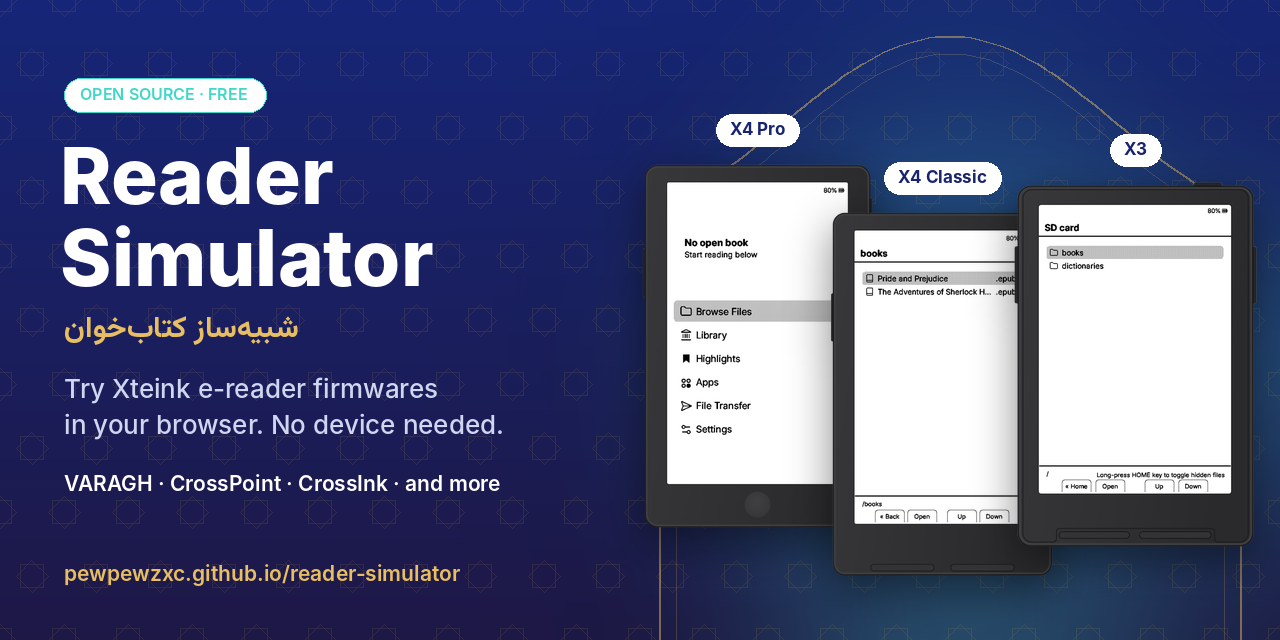
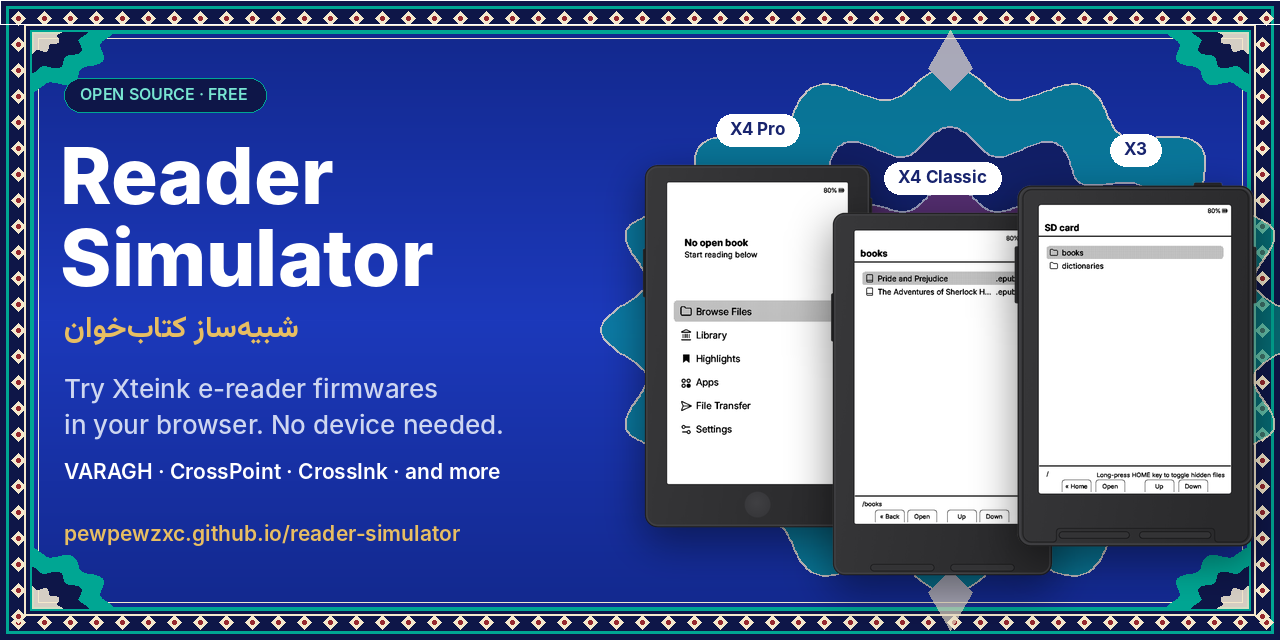
Social images: Persian rug design (Persian blue field, Persian green guards, central medallion); Reddit post text
Claude-Session: https://claude.ai/code/session_017xrLS5EUsNn3uv8jvV4W62

diff --git a/docs/social/reddit-post.md b/docs/social/reddit-post.md
@@ -1,0 +1,21 @@
+**Title:** I made a free simulator to try Xteink firmwares in your browser (X4 Pro, X4 Classic, X3)
+
+**Body:**
+
+Hi all! I built **Reader Simulator**, a free, open-source way to try custom firmwares for the X4 Pro, X4 Classic and X3 without flashing anything.
+
+👉 https://pewpewzxc.github.io/reader-simulator/
+
+- Pick a device, firmware and version, then press Start. Works on desktop, tablet and phone.
+- Click the keys or use the X4 Pro touchscreen.
+- Each SD card comes with two free books and a dictionary, or add your own EPUBs (they never leave your browser).
+- New firmware releases are built and added automatically.
+
+**Available now:** VARAGH, CrossPoint, CrossInk, YACP, CrossNotes, CrossDiTo, PocketDeck OS, duet and the Pokémon game.
+
+**Help wanted:**
+
+- **Suggestions:** which firmwares should I add next?
+- **Firmware authors:** I can't get **Witchhunt Reader, CrossPlant, inx, InkPointX and cpr-vcodex** to build in the simulator yet. If you make one of these, the most useful thing is a simulator build that works with the public [crosspoint-simulator](https://github.com/crosspoint-reader/crosspoint-simulator) or [crossink-simulator](https://github.com/uxjulia/crossink-simulator) library, or a quick note on what your hardware layer changed. A LICENSE file in the repo is needed too. I'm happy to do the work on my side.
+
+Source: https://github.com/PewPewzxc/reader-simulator. This is a community project, not affiliated with Xteink. Feedback and bug reports are very welcome!
